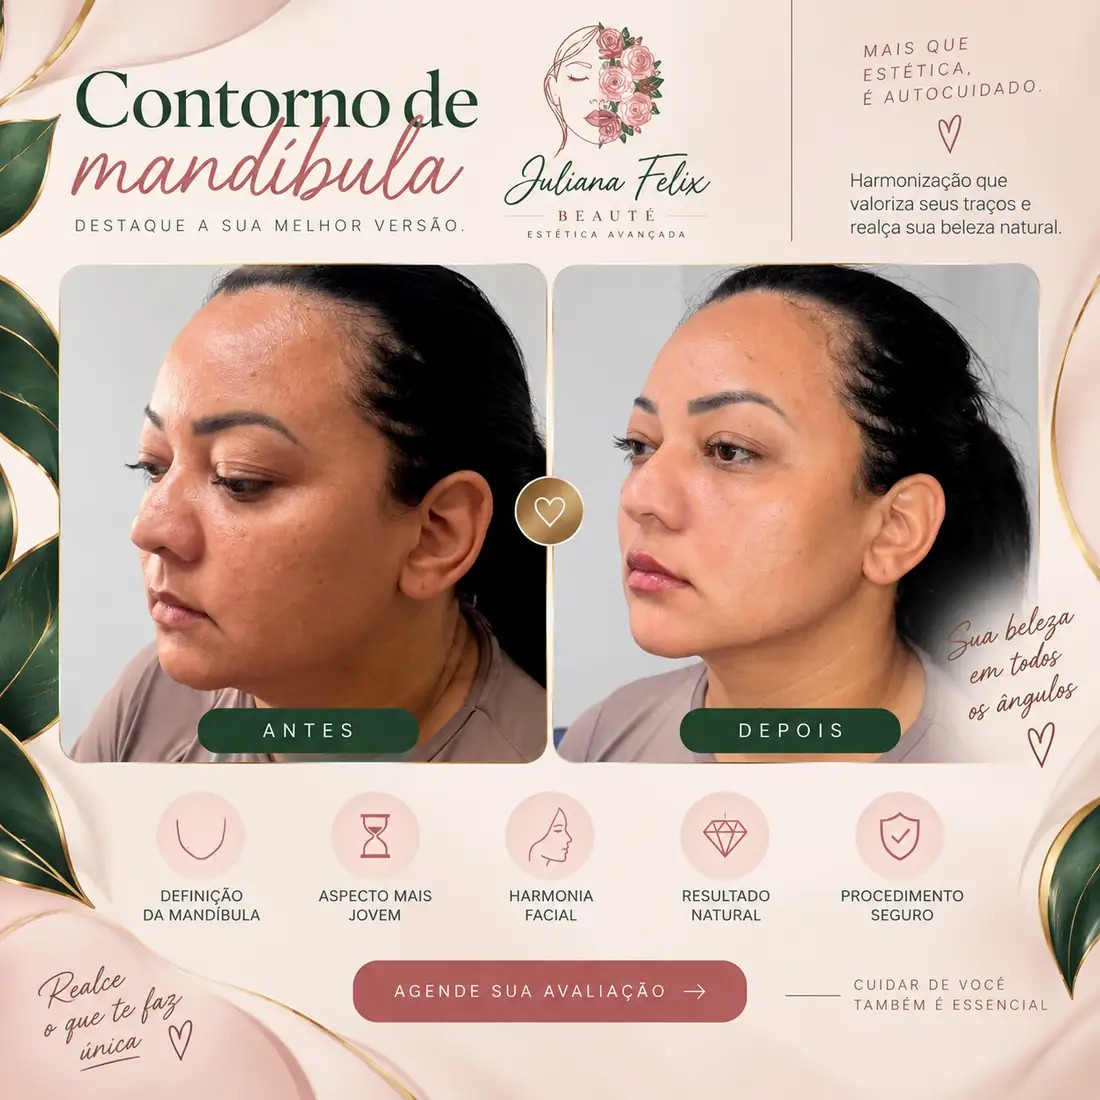
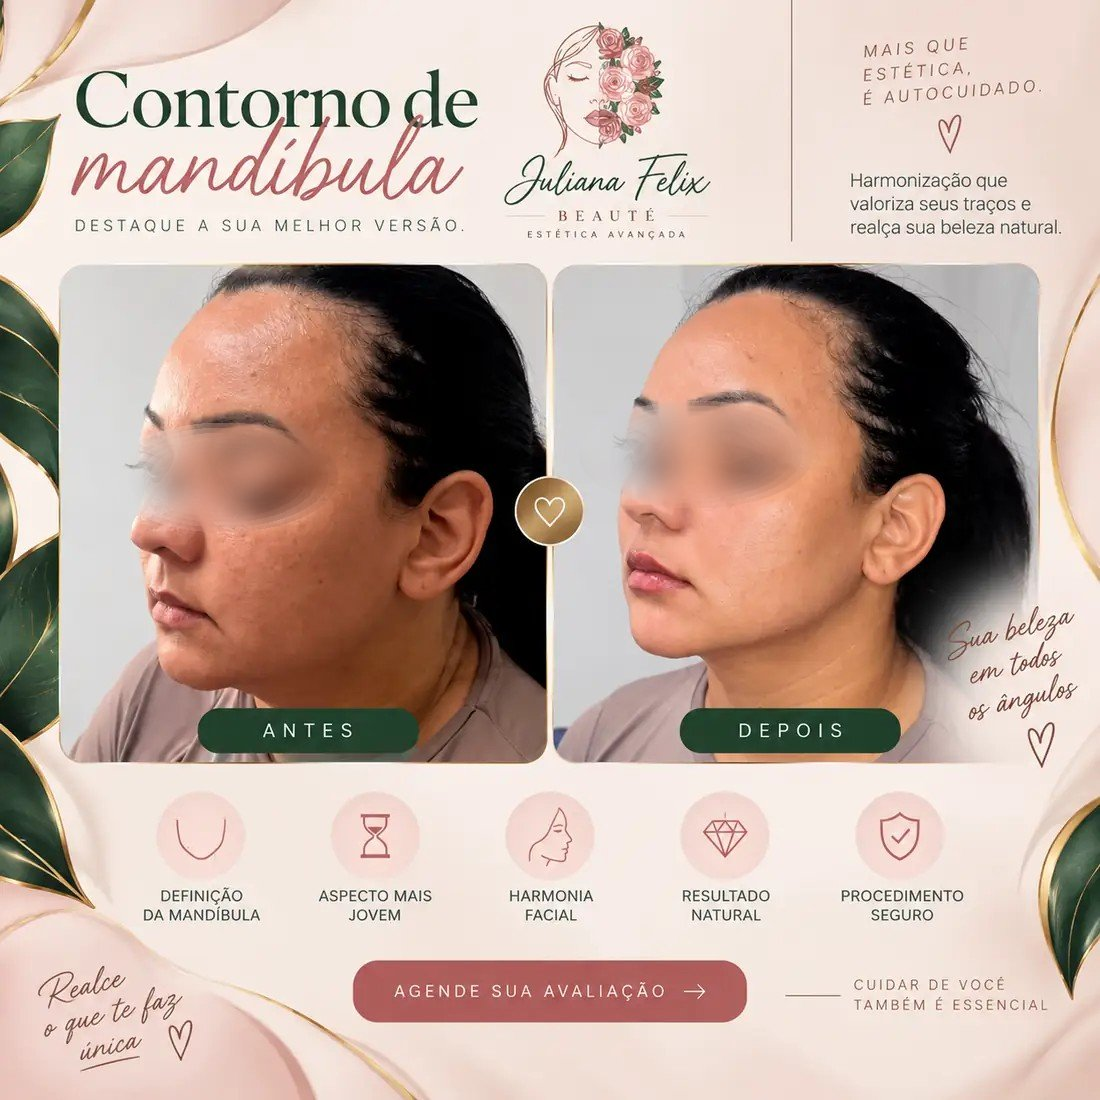
Crédito do desenvolvedor, link das avaliações do Google e olhos desfocados na peça de anúncio de mandíbula

Changed region(s): [[0.1236, 0.3709, 0.3091, 0.4945], [0.5564, 0.34, 0.7109, 0.4636]]

diff --git a/_modelo/template.html b/_modelo/template.html
@@ -358,7 +358,7 @@
     </div>
     <div class="footer-bottom">
       <span>&copy; {{calc.ano}} {{marca.nomeCompleto}}. Todos os direitos reservados.</span>
-      {{#desenvolvedor.nome}}<span>Site desenvolvido por <a href="{{desenvolvedor.url}}" target="_blank" rel="noopener">{{desenvolvedor.nome}}</a></span>{{/desenvolvedor.nome}}
+      {{#desenvolvedor.nome}}<span>Site desenvolvido por {{#desenvolvedor.url}}<a href="{{desenvolvedor.url}}" target="_blank" rel="noopener">{{desenvolvedor.nome}}</a>{{/desenvolvedor.url}}{{^desenvolvedor.url}}{{desenvolvedor.nome}}{{/desenvolvedor.url}}</span>{{/desenvolvedor.nome}}
     </div>
   </div>
 </footer>

diff --git a/index.html b/index.html
@@ -363,7 +363,7 @@
         
       </div>
       <div class="test-dots" id="testDots" aria-hidden="true"></div>
-      
+      <p class="test-more"><a href="https://www.google.com/search?kgmid=/g/11zyx0xh3q" target="_blank" rel="noopener">Ver todas as avaliações no Google <svg aria-hidden="true"><use href="#i-seta"/></svg></a></p>
     </div>
   </section>
   
@@ -447,7 +447,7 @@
     </div>
     <div class="footer-bottom">
       <span>&copy; 2026 Juliana Felix Beauté. Todos os direitos reservados.</span>
-      
+      <span>Site desenvolvido por Jonathas Mariano</span>
     </div>
   </div>
 </footer>

diff --git a/README.md b/README.md
@@ -26,9 +26,7 @@ _modelo/
 2. Rode `powershell -ExecutionPolicy Bypass -File _modelo\build.ps1`.
 3. Suba os arquivos alterados para o GitHub. O site atualiza em alguns minutos.
 
-## Pendências
+## Observações
 
-- Substituir os depoimentos de exemplo por avaliações reais (`depoimentos` no `cliente.json`).
-- Preencher o número do COREN em `marca.registro`.
-- Preencher `contato.googleAvaliacoes` quando o Perfil da Empresa no Google estiver ativo.
-- Preencher `desenvolvedor` com o nome/site de quem desenvolveu.
+- O COREN não é exibido no site por decisão da cliente (`marca.registro` fica vazio).
+- Perfil da Empresa no Google: https://www.google.com/search?kgmid=/g/11zyx0xh3q
